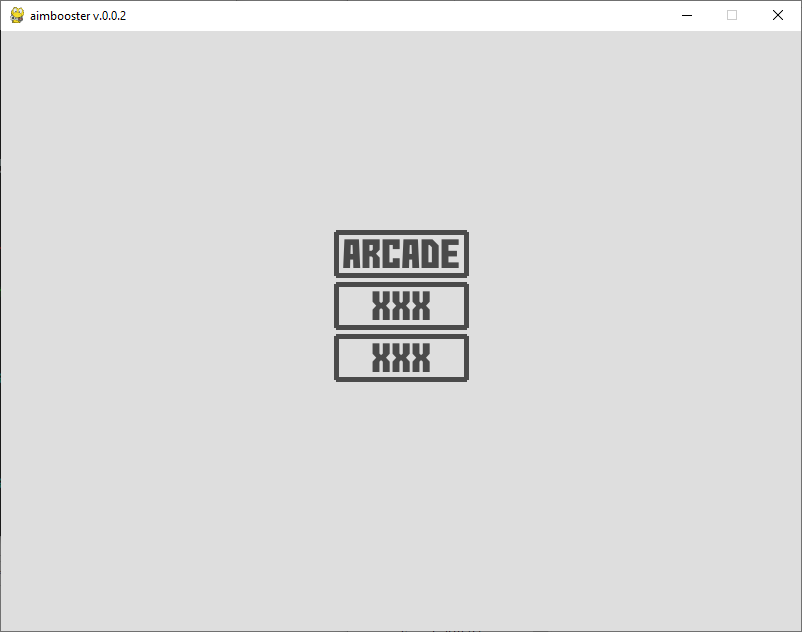
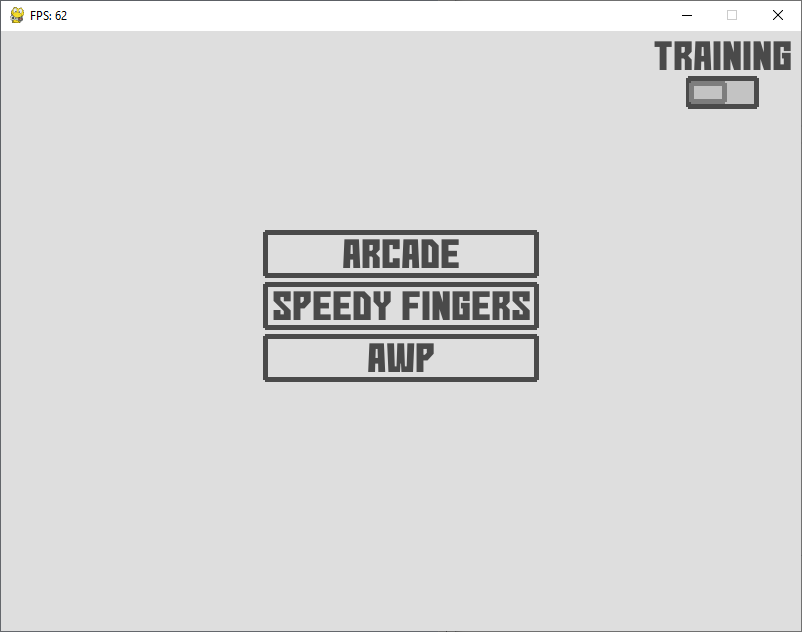
Update readme.md

Changed region(s): [[0.3117, 0.3608, 0.6858, 0.6313], [0.8105, 0.0601, 0.9975, 0.1804], [0.0312, 0.0, 0.1559, 0.0301]]

diff --git a/README.md b/README.md
@@ -5,6 +5,8 @@ Here comes a tool for improving your aim written in Python with help of Pygame l
 ![Main menu](img/main_menu.png)
 ![The game](img/the_game.png)
 ![Summary tab](img/summary.png)
+![Speedy fingers mode](img/speedy_fingers.png)
+![AWP mode](img/awp.png)
 
 # Todo
 - Add new training modes
